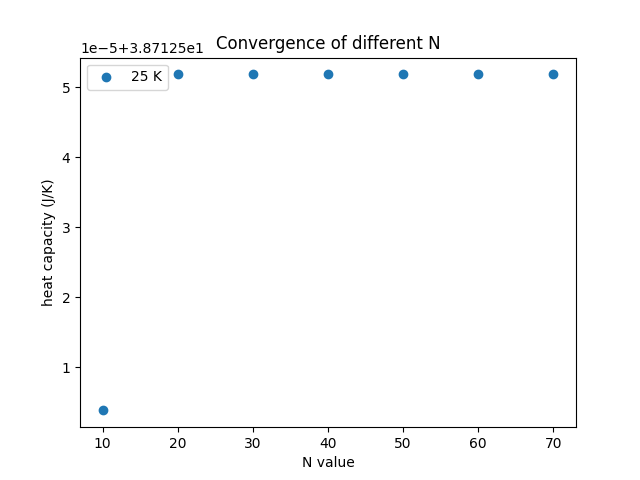
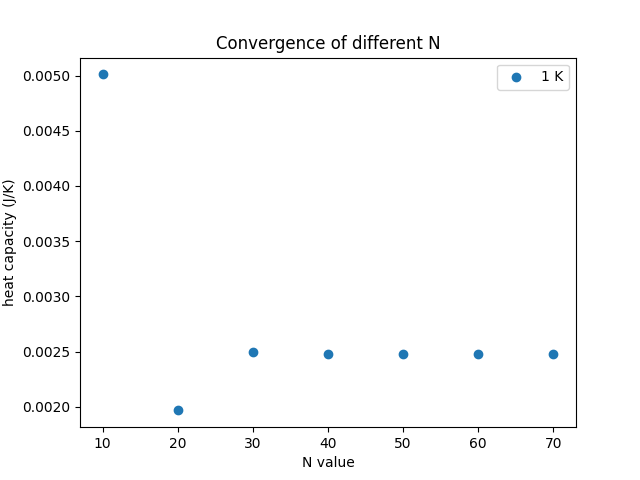
just fixing commit issues

diff --git a/ps-5/problem1.py b/ps-5/problem1.py
@@ -1,0 +1,35 @@
+import numpy as np
+import matplotlib.pyplot as plt
+import jax
+import jax.numpy as jnp
+dx = 0.1
+def diff_central(func=None, x=None, dx=None):
+    return((func(x + 0.5 * dx) - func(x - 0.5 * dx)) / dx)
+
+def f(x):
+    return 1 + (1/2) * np.tanh(2*x)
+def f_jax(x):
+    return 1 + (1/2) * jnp.tanh(2*x)
+def dfdx(x):
+    return (1/(np.cosh(2*x))) ** 2
+
+x = np.float64(np.arange(-2, 2, dx))
+
+
+dfnumerical = diff_central(func=f, x = x, dx = dx)
+dfcalculated = dfdx(x)
+
+dv_jax = jax.grad(f_jax)
+dv = jax.vmap(dv_jax)(x)
+
+fig, ax = plt.subplots()
+ax.scatter(x, dfnumerical, label = "central difference", color = "b", s = 20)
+ax.plot(x, dfcalculated, label = "analytic", color = "r")
+ax.scatter(x, dv, label = "autodiff", color = "y", s = 10)
+ax.legend()
+
+ax.set_title("Derivative of a simple function")
+ax.set_xlabel("x")
+ax.set_ylabel("f(x)")
+
+plt.savefig("ps-5/plots/tanh")

diff --git a/ps-4/problem1.py b/ps-4/problem1.py
@@ -55,7 +55,7 @@ wps = []
 cvs = []
 
 
-T= 25
+T= 1
 Ts = T * np.ones(len(N_list))
 cVs = const_Cv(V, rho, theta, kb, Ts)
 for n in N_list:
